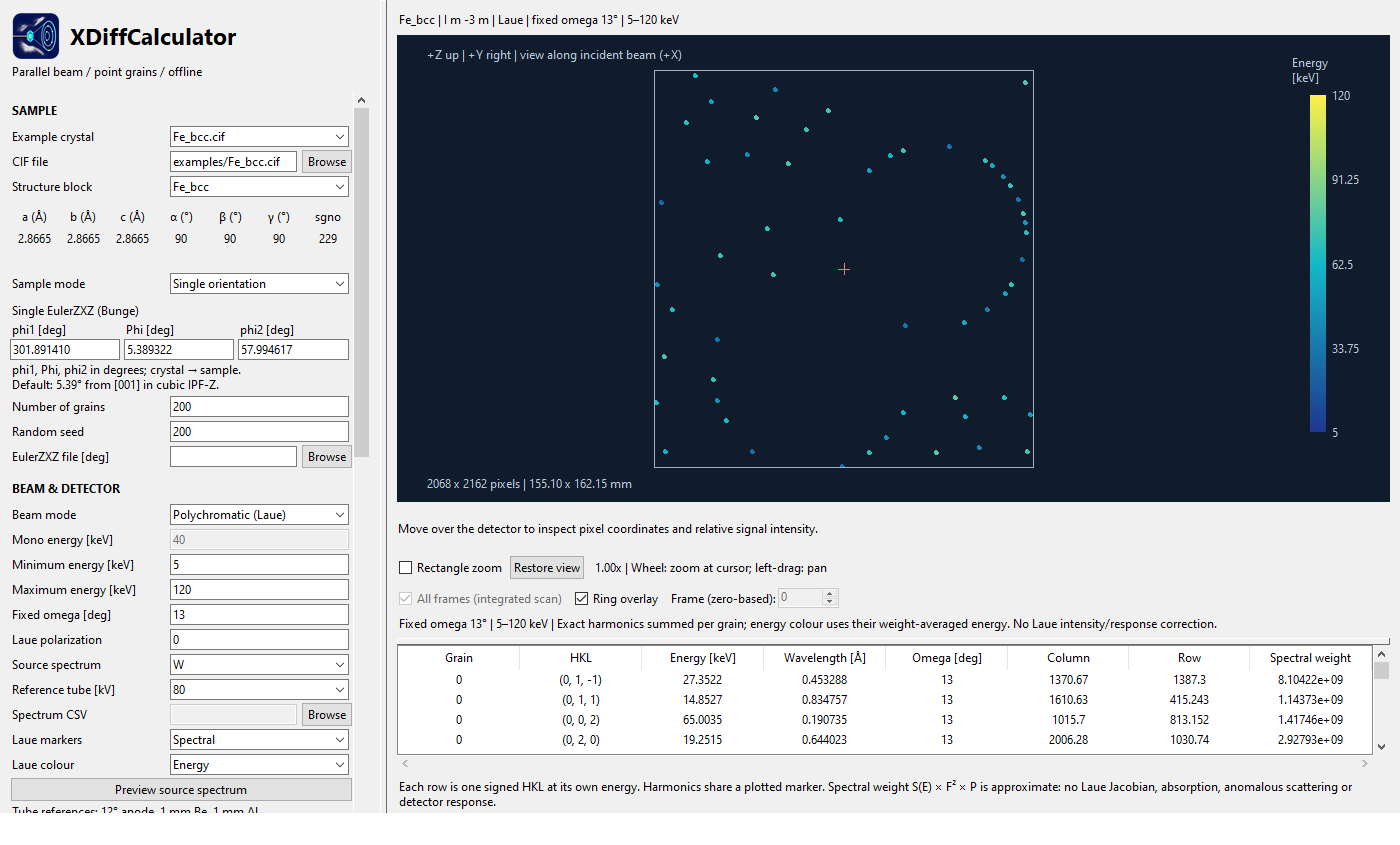
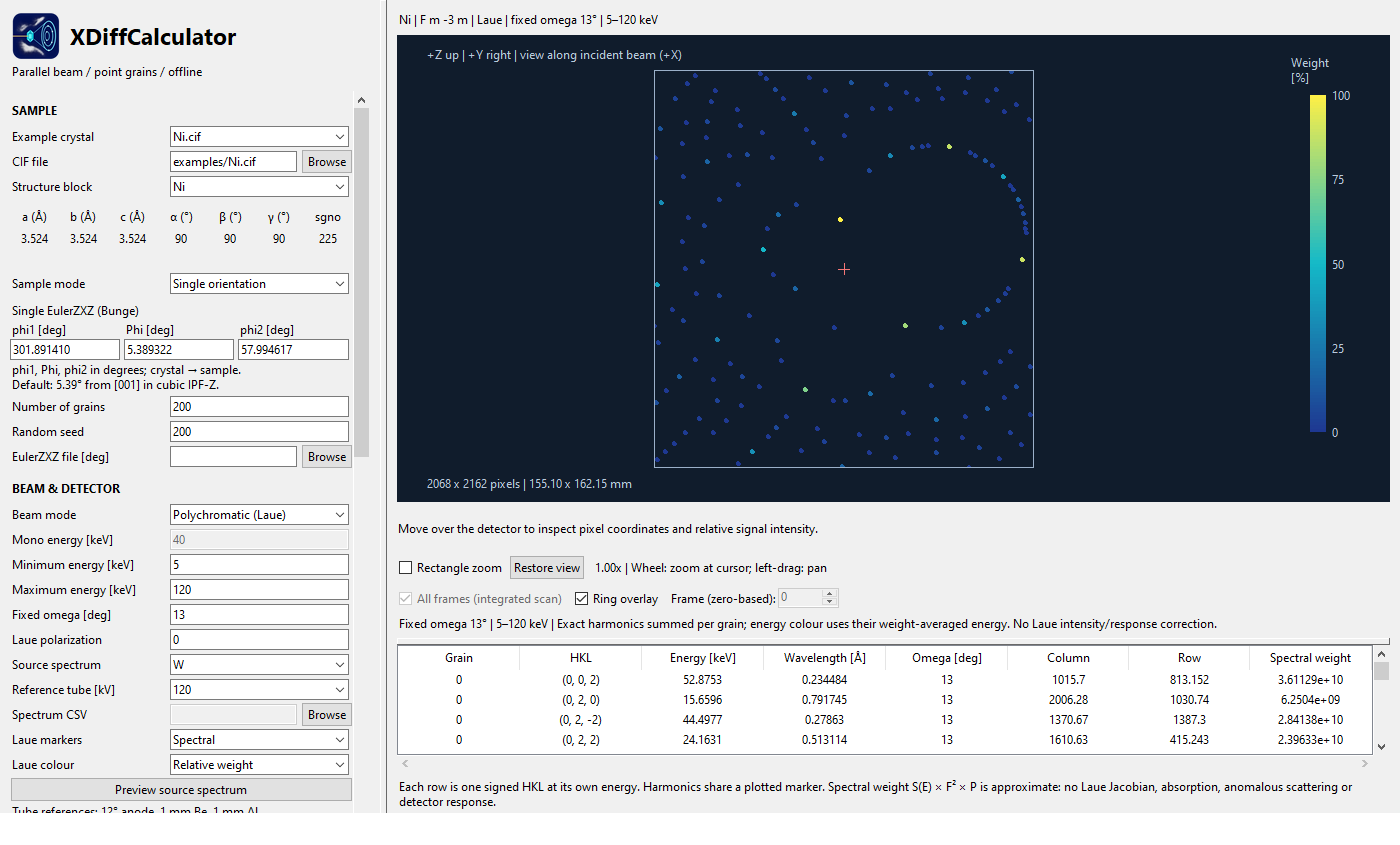
update the snapshot for Laue case

diff --git a/README.md b/README.md
@@ -32,7 +32,9 @@ The screenshot shows the bundled Fe bcc example at 40 keV with an EIGER2 X CdTe 
 
 ## White-beam / Laue simulation
 
-![Laue simulation at fixed omega with energy-coloured diffraction spots](docs/images/laue_gui.png)
+![Laue simulation at fixed omega with diffraction spots coloured by relative weight](docs/images/laue_gui.png)
+
+The screenshot shows the Ni example at a fixed omega of 13°, using a W 120 kV source and a 5–120 keV energy window. **Relative weight** colouring displays the approximate spectral weights, with the colour bar labelled **Weight [%]** and normalized to the strongest displayed harmonic group.
 
 Choose **Polychromatic (Laue)** under Beam mode. Select **Single orientation**, **Random grains**, or **Imported orientations**. **Single EulerZXZ (Bunge)** accepts three angles `phi1, Phi, phi2` in degrees, in three labelled entries. The default is **301.891410°, 5.389322°, 57.994617°**, placing sample Z about **5.39° from [001]** in a cubic IPF-Z plot. All grains remain at the origin.
 
